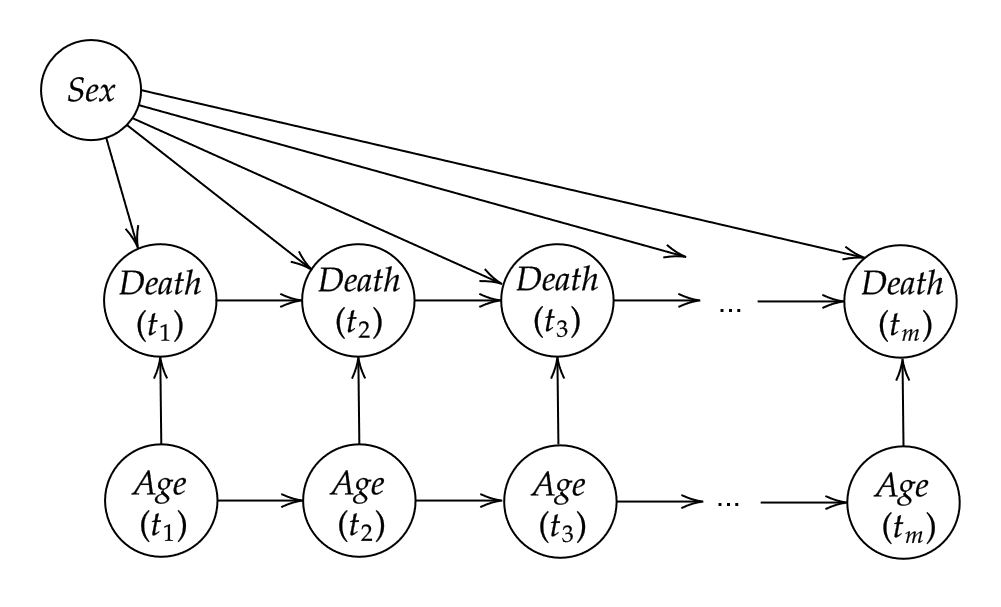
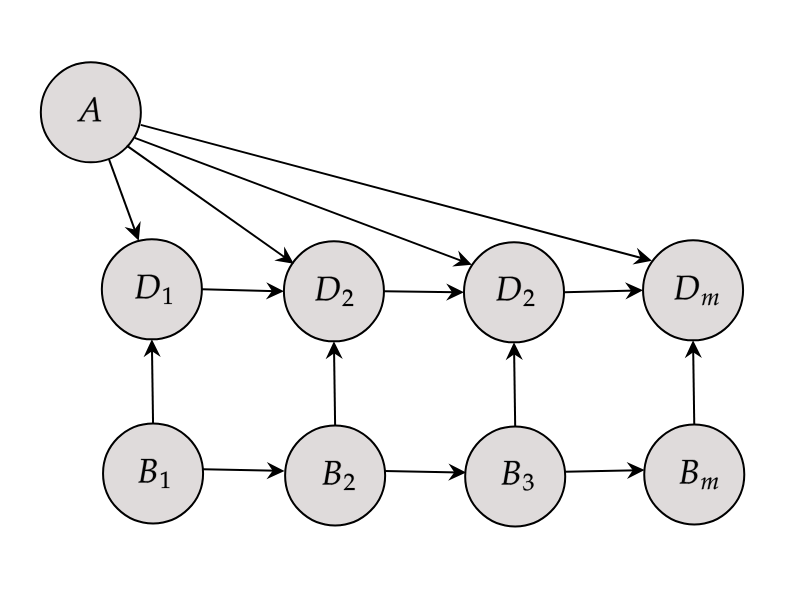
docs: finish cookbook vignette, visual update in other vignettes + minor changes

Changed region(s): [[0.0303, 0.0597, 0.9685, 0.9254]]

diff --git a/NEWS.md b/NEWS.md
@@ -102,7 +102,7 @@ Bug Fixes
 * When specifying a node as both a root or child node and as a time-dependent node, it is no longer counted twice in `print.DAG()`
 * Fix small error in tests due to changes in `data.table`
 
-# simDAG 0.2.3
+# simDAG 0.3.0
 
 New Features
 
@@ -126,3 +126,4 @@ Bug Fixes
 Documentation
 
 * Added new "cookbook" vignette to showcase more possible use cases of the package.
+* Visual update of the DAGs shown in the vignette figures.
